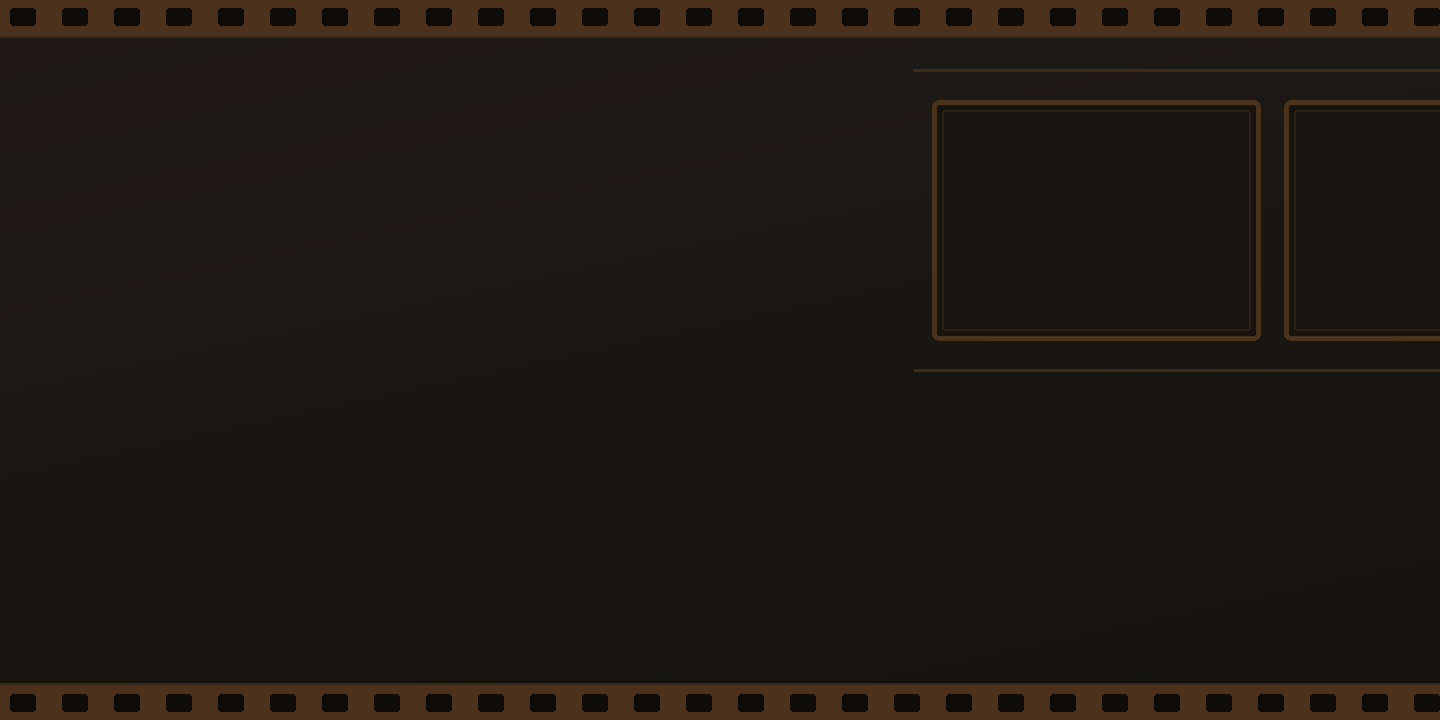
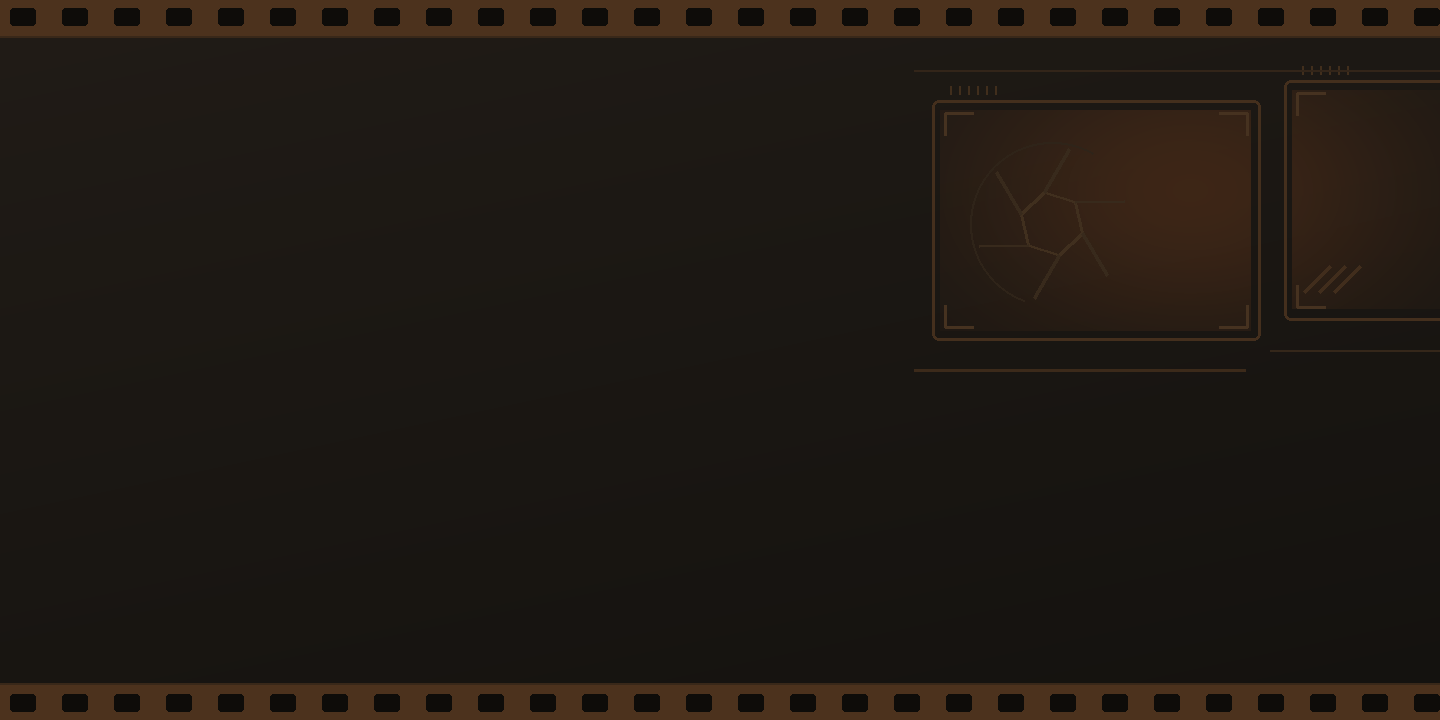
Enrich film travel artwork with exposure and aperture details in 1.6.7

Changed region(s): [[0.6875, 0.0917, 1.0, 0.5194], [0.6562, 0.1222, 0.7188, 0.1833], [0.6562, 0.4278, 0.6875, 0.4583]]

diff --git a/trip-reminder/utils/common.ts b/trip-reminder/utils/common.ts
@@ -1,3 +1,3 @@
 // utils/common.ts — 版本号与零散工具
 
-export const VERSION = "1.6.6"
+export const VERSION = "1.6.7"

diff --git a/trip-reminder/tools/build-theme-assets.py b/trip-reminder/tools/build-theme-assets.py
@@ -117,6 +117,12 @@ def mocha():
  return wash(layer(im,paper),(250,246,239),70,.65)
 def film():
  im=gradient((33,28,23),(20,18,15))
+ # Confine the exposure wash to the film frames, away from the primary text zones.
+ y,x=np.mgrid[:720,:1440]
+ frames=(((x>=940)&(x<=1250)&(y>=110)&(y<=330))|((x>=1292)&(y>=90)&(y<=308)))
+ exposure=np.exp(-((x-1190)/230)**2-((y-190)/150)**2)*frames
+ veil=np.zeros((720,1440,4),dtype=np.uint8);veil[...,:3]=(78,45,24);veil[...,3]=(exposure*170).astype('uint8')
+ im=Image.alpha_composite(im,Image.fromarray(veil))
  def stock(d):
   # Sprockets stay inside the outer 5pt; the text begins at 14pt.
   for y,hole_y in ((0,8),(684,694)):
@@ -125,15 +131,29 @@ def film():
     d.rounded_rectangle((x,hole_y,x+25,hole_y+17),radius=3,fill=(14,12,9,255))
   d.line((0,36,1440,36),fill=(57,40,25,255),width=2)
   d.line((0,683,1440,683),fill=(57,40,25,255),width=2)
-  for x in (932,1284):
-   d.rounded_rectangle((x,100,x+328,340),radius=7,fill=(23,20,16,255),outline=(74,50,29,255),width=5)
-   d.rounded_rectangle((x+10,110,x+318,330),radius=3,outline=(45,34,23,255),width=2)
-  d.line((914,70,1440,70),fill=(60,42,26,255),width=3)
-  d.line((914,370,1440,370),fill=(60,42,26,255),width=3)
+  for x,y in ((932,100),(1284,80)):
+   d.rounded_rectangle((x,y,x+328,y+240),radius=7,outline=(68,47,29,255),width=3)
+   for xx,yy,sx,sy in ((x+13,y+13,1,1),(x+315,y+13,-1,1),(x+13,y+227,1,-1),(x+315,y+227,-1,-1)):
+    d.line([(xx+sx*28,yy),(xx,yy),(xx,yy+sy*22)],fill=(70,50,32,255),width=3)
+   for tick in range(6):
+    xx=x+18+tick*9;d.line((xx,y-14,xx,y-6),fill=(65,46,28,255),width=2)
+  # A faint six-blade aperture etching stays decorative, with no extra labels.
+  cx,cy=1052,224
+  opening=[(cx+32*math.cos(i*math.pi/3+.3),cy+32*math.sin(i*math.pi/3+.3)) for i in range(7)]
+  d.line(opening,fill=(64,47,30,255),width=3)
+  for i in range(6):
+   angle=i*math.pi/3+.3
+   d.line([opening[i],(cx+76*math.cos(angle+.45),cy+76*math.sin(angle+.45))],fill=(56,42,28,255),width=3)
+  d.arc((cx-82,cy-82,cx+82,cy+82),110,300,fill=(47,36,25,255),width=2)
+  for offset in (0,15,30):
+   d.line([(1304+offset,292),(1330+offset,266)],fill=(65,45,28,255),width=3)
+  d.line((914,70,1440,70),fill=(51,37,25,255),width=2)
+  d.line((914,370,1245,370),fill=(60,42,26,255),width=3)
+  d.line((1270,350,1440,350),fill=(53,39,26,255),width=2)
  im=layer(im,stock)
  im.info["pnginfo"]=PngImagePlugin.PngInfo()
  im.info["pnginfo"].add_text("Source","Original procedural artwork: trip-reminder/tools/build-theme-assets.py:film")
- im.info["pnginfo"].add_text("Description","Movie-film travel: warm charcoal, dark amber film rails, outer sprocket holes, and empty cropped footage frames at right. No scenic illustration; motif colors remain below 0.045 sRGB relative luminance.")
+ im.info["pnginfo"].add_text("Description","Movie-film travel: warm charcoal and sprocket rails, staggered exposure frames with a soft amber wash, six-blade aperture etching, viewfinder crop corners and splice marks. No text or personal imagery; dark decoration preserves itinerary readability.")
  return im
 def space():
  im=gradient((12,16,34),(21,19,41))

diff --git a/trip-reminder/README.md b/trip-reminder/README.md
@@ -84,6 +84,13 @@ NODE_PATH=<含 esbuild 的 node_modules> node tools/test-parse.cjs
 - 时间表旁显示行程时长（如「｜1 小时 24 分」），检票口/登机口和座位用大字号突出。
 - 已填历时优先；缺失时根据钟点差推算跨午夜时长。跨时区航班请填写实际历时。
 
+## 胶片画格细节（v1.6.7）
+
+- 丰富「胶片旅途」右上角画格：错层片框、琥珀色曝光渐变、取景裁切角、淡六叶光圈线条和片边接合刻线，避免只有两格空矩形。
+- 保留上下胶卷齿孔与暖炭黑底。只调整右上装饰区域，左侧文字区和底部信息区像素不变，不增加可与行程混淆的装饰文字。
+- 首页、设置主题缩略图、预览及主屏幕小组件继续读取同一背景资源，沿用当前主题偏好；当天强调、中央时长箭头、右侧对齐及经停摘要保持不变。
+- 背景可重复生成；原尺寸、中号、小号和缩略图下的全部受检字体颜色对比度通过，最低为 5.38:1。更新前后图片为同一虚构行程的桌面示意，更新后的 iPhone 显示仍需真机复验。
+
 ## 居中时长与右侧对齐（v1.6.6）
 
 - 根据 v1.6.5 的 iPhone 截图修正右侧松散的问题：到达时间、到达地及座位信息与顶部日期共用右边缘。
@@ -142,7 +149,7 @@ v1.5.2 将预览高度与裁切设置在外层 `VStack`，内部 `GeometryReader
 | 赛博朋克 | 夜城剪影、电路线条、扫描纹理、青色与警示黄 |
 | 动漫风景 | 蓝天云朵、远山、列车与铁路插画 |
 | 青绿山行 | 冷调浅青绿地图、等高线与航线，深绿正文与重点文字 |
-| 胶片旅途 | 暖炭黑胶卷、齿孔与画格，琥珀色重点文字 |
+| 胶片旅途 | 暖炭黑胶卷、错层曝光画格、取景角与光圈刻线，琥珀色重点文字 |
 | 太空漫游 | 深靛星空、行星弧面与轨道，冰蓝与淡紫重点文字 |
 
 强调色独立于背景主题保存，支持「跟随主题」及爱马仕橙、蒂芙尼蓝、普鲁士蓝、克莱因蓝、勃艮第红、祖母绿、鸢尾紫、香槟金。强调车次／航班号、倒计时、检票口／登机口和座位；深浅背景使用对应明度，保证文字清晰。强调色选项每行三个，共三行；色块、名称与单元格空白区域均可点击，选中项显示勾选标记。小组件读取同一份主题与强调色偏好。原旅行手账的已存偏好自动沿用为青绿山行；原松林绿的已存偏好自动沿用为奶油摩卡。
